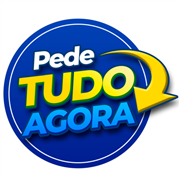
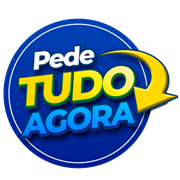
Identidade visual: logomarca em imagem no header, footer e icones
O selo oficial (public/marca) entra no lugar do badge "TA" e do wordmark
em texto. scripts/marca-sem-fundo.ps1 remove o fundo claro e a sombra por
flood-fill a partir das bordas (preserva os brancos internos do selo) e
regenera icone-192/512, apple-touch e uma variante maskable com fundo da
marca, porque launcher recorta maskable e fundo transparente viraria blob.

Changed region(s): [[0.8056, 0.5278, 1.0, 0.6667], [0.9167, 0.3611, 0.9722, 0.5278]]

diff --git a/src/components/site-header.tsx b/src/components/site-header.tsx
@@ -14,15 +14,19 @@ function Logo({ className = "" }: { className?: string }) {
       aria-label={`${siteConfig.name} — página inicial`}
       className={`inline-flex items-center ${className}`}
     >
-      <span
+      {/*
+        Logomarca somente em imagem (`public/marca/logo-sem-fundo.png`, selo
+        circular com fundo removido por `scripts/marca-sem-fundo.ps1`). O
+        `aria-label` do link carrega o nome para leitores de tela, então a
+        imagem é decorativa.
+      */}
+      {/* eslint-disable-next-line @next/next/no-img-element */}
+      <img
+        src="/marca/logo-sem-fundo.png"
+        alt=""
         aria-hidden="true"
-        className="grid h-10 w-10 place-items-center rounded-logo bg-white text-lg font-black text-marca-800"
-      >
-        TA
-      </span>
-      <span className="text-xl font-black tracking-tight text-white">
-        Tudo<span className="text-destaque-500">Agora</span>
-      </span>
+        className="h-14 w-auto"
+      />
     </Link>
   );
 }

diff --git a/src/components/site-footer.tsx b/src/components/site-footer.tsx
@@ -14,9 +14,13 @@ export function SiteFooter() {
       <div className="mx-auto w-full max-w-6xl px-4 py-14 lg:px-6">
         <div className="grid gap-10 md:grid-cols-4">
           <div className="md:col-span-2">
-            <p className="text-2xl font-black tracking-tight">
-              Tudo<span className="text-destaque-500">Agora</span>
-            </p>
+            {/* Logomarca somente em imagem — a mesma do cabeçalho. */}
+            {/* eslint-disable-next-line @next/next/no-img-element */}
+            <img
+              src="/marca/logo-sem-fundo.png"
+              alt={siteConfig.name}
+              className="h-20 w-auto"
+            />
             <p className="mt-2 max-w-sm text-sm text-white/70">
               {siteConfig.tagline}. Conectando pessoas a sensações.
             </p>
